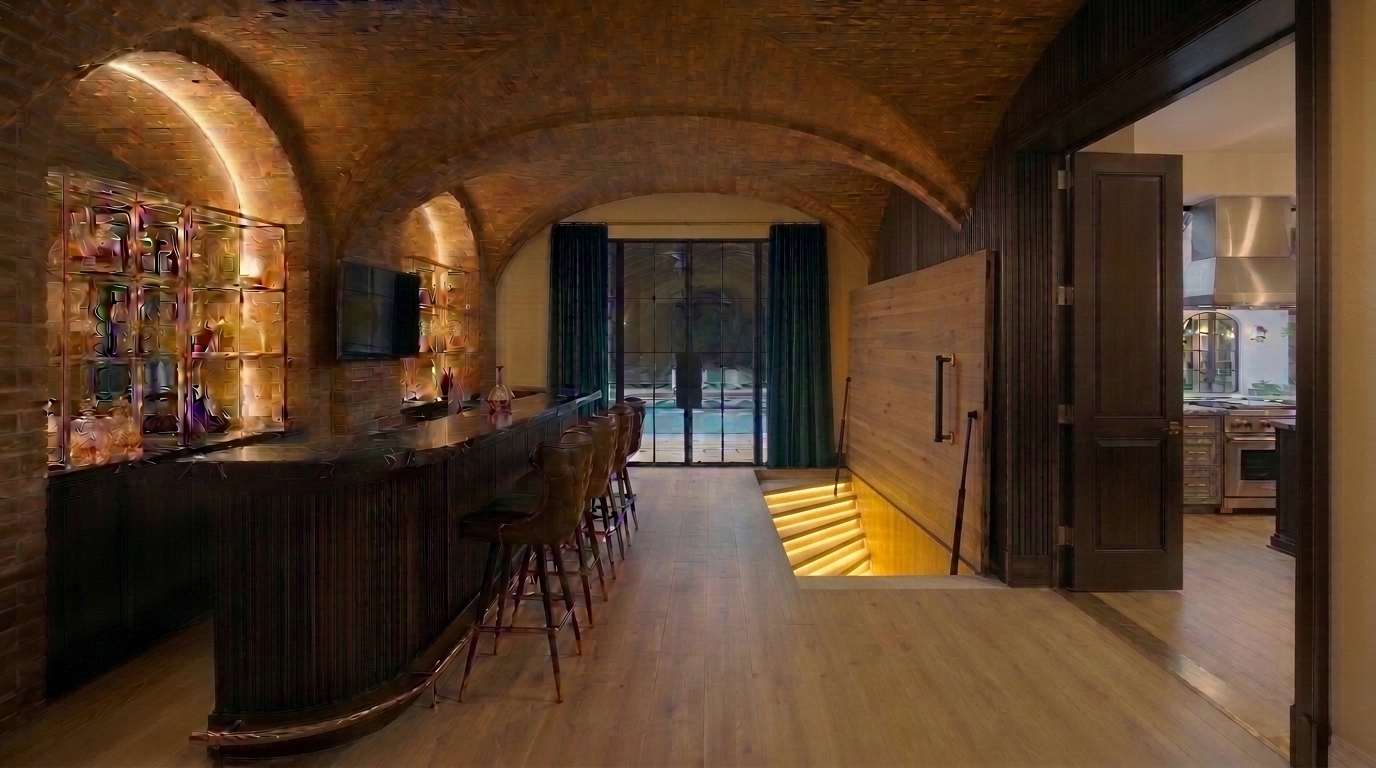
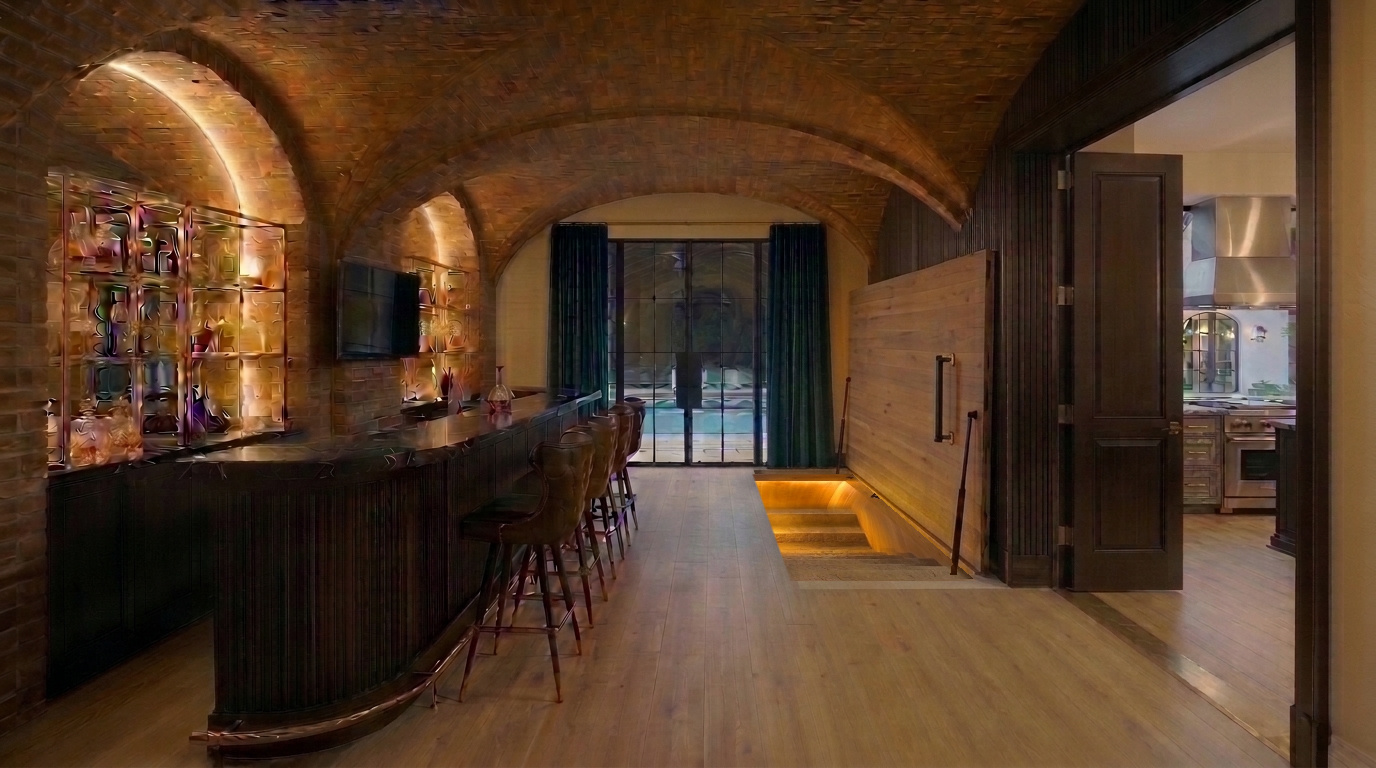
Update Speakeasy View C straight wall & China Cabinet door + Multi-Purpose Barn (Black Fleet, Wedding Reception & Gala modes)

Changed region(s): [[0.5312, 0.5938, 0.7188, 0.7812]]

diff --git a/estate_interactive_lookbook_standalone.html b/estate_interactive_lookbook_standalone.html
@@ -377,7 +377,7 @@
 
           <div onclick="openLightbox(10)" class="group cursor-zoom-in bg-stone-950 border border-amber-500/40 rounded-xl overflow-hidden">
             <div class="relative overflow-hidden">
-              <img src="static/images/03_speakeasy_cutaway.jpg?v=steepstairs04" alt="Inside Speakeasy (Floor Hatch Door OPENED UP at 90°): Hydraulic Wood-Plank Floor Hatch Lifted Up at a 90-Degree Angle Against the Dark Wood Wall with Realistic Steep LED-Lit Stone Cellar Stairs & Underside Handle" class="w-full h-60 object-cover group-hover:scale-105 transition duration-500" />
+              <img src="static/images/03_speakeasy_cutaway.jpg?v=stairstopool05" alt="Inside Speakeasy (Floor Hatch Door OPENED UP at 90°): Hydraulic Wood-Plank Floor Hatch Lifted Up at a 90-Degree Angle Against the Dark Wood Wall with Realistic Steep LED-Lit Stone Cellar Stairs & Underside Handle" class="w-full h-60 object-cover group-hover:scale-105 transition duration-500" />
               <div class="absolute top-3 left-3 px-2.5 py-1 rounded-md bg-amber-500 text-xs font-bold text-stone-950">4. INSIDE (STEEP STAIRS &amp; 90° DOOR OPEN)</div>
             </div>
             <div class="p-3.5">
@@ -1422,7 +1422,7 @@
         ]
       },
       {
-        src: "static/images/03_speakeasy_cutaway.jpg?v=steepstairs04",
+        src: "static/images/03_speakeasy_cutaway.jpg?v=stairstopool05",
         category: "level1",
         zone: "Speakeasy (3C. Inside — Picture 3 of 3: BOTH Doors OPEN, Realistic Steep LED-Lit Stone Stairs for Full Headroom & Bottom Handle)",
         badge: "Level 1 • Inside Narrow 12'×18' Speakeasy (Picture 3 of 3): BOTH Doors OPEN — Realistic Steep (~45° Pitch) LED-Lit Stone Stairs Plunging Deeply Into the Cellar Shaft for Full Walking Headroom, Extended 90° Door & Handle on Bottom",

diff --git a/index.html b/index.html
@@ -377,7 +377,7 @@
 
           <div onclick="openLightbox(10)" class="group cursor-zoom-in bg-stone-950 border border-amber-500/40 rounded-xl overflow-hidden">
             <div class="relative overflow-hidden">
-              <img src="static/images/03_speakeasy_cutaway.jpg?v=steepstairs04" alt="Inside Speakeasy (Floor Hatch Door OPENED UP at 90°): Hydraulic Wood-Plank Floor Hatch Lifted Up at a 90-Degree Angle Against the Dark Wood Wall with Realistic Steep LED-Lit Stone Cellar Stairs & Underside Handle" class="w-full h-60 object-cover group-hover:scale-105 transition duration-500" />
+              <img src="static/images/03_speakeasy_cutaway.jpg?v=stairstopool05" alt="Inside Speakeasy (Floor Hatch Door OPENED UP at 90°): Hydraulic Wood-Plank Floor Hatch Lifted Up at a 90-Degree Angle Against the Dark Wood Wall with Realistic Steep LED-Lit Stone Cellar Stairs & Underside Handle" class="w-full h-60 object-cover group-hover:scale-105 transition duration-500" />
               <div class="absolute top-3 left-3 px-2.5 py-1 rounded-md bg-amber-500 text-xs font-bold text-stone-950">4. INSIDE (STEEP STAIRS &amp; 90° DOOR OPEN)</div>
             </div>
             <div class="p-3.5">
@@ -1422,7 +1422,7 @@
         ]
       },
       {
-        src: "static/images/03_speakeasy_cutaway.jpg?v=steepstairs04",
+        src: "static/images/03_speakeasy_cutaway.jpg?v=stairstopool05",
         category: "level1",
         zone: "Speakeasy (3C. Inside — Picture 3 of 3: BOTH Doors OPEN, Realistic Steep LED-Lit Stone Stairs for Full Headroom & Bottom Handle)",
         badge: "Level 1 • Inside Narrow 12'×18' Speakeasy (Picture 3 of 3): BOTH Doors OPEN — Realistic Steep (~45° Pitch) LED-Lit Stone Stairs Plunging Deeply Into the Cellar Shaft for Full Walking Headroom, Extended 90° Door & Handle on Bottom",
